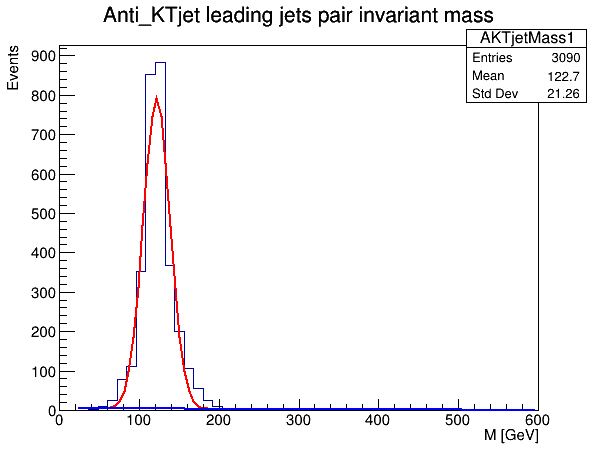
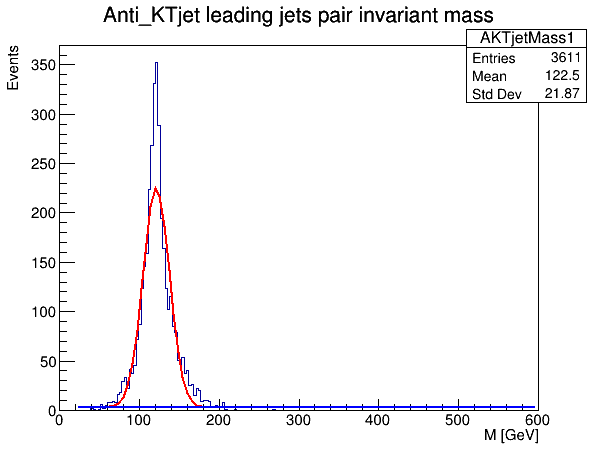
Update new pairing algorithm

diff --git a/Delphes/src/PairingDiHiggs.C b/Delphes/src/PairingDiHiggs.C
@@ -49,8 +49,8 @@ void PairingDiHiggs(const char *inputFile, const char *outputFile){
 
      Int_t nEntries = tree_sig->GetEntries();
 
-     TH1D *AKTjetMass1 = new TH1D("AKTjetMass1", "Anti_KTjet leading jets pair invariant mass", 50 , 0, 600); 
-     TH1D *AKTjetMass2 = new TH1D("AKTjetMass2", "Anti_KTjet sub-leading jets pair invariant mass", 50 , 0, 600); 
+     TH1D *AKTjetMass1 = new TH1D("AKTjetMass1", "Anti_KTjet leading jets pair invariant mass", 200 , 0, 600); 
+     TH1D *AKTjetMass2 = new TH1D("AKTjetMass2", "Anti_KTjet sub-leading jets pair invariant mass", 200 , 0, 600); 
      TH1D *GenAKTMass2 = new TH1D("GenAKTMass2", "GenAKTMass2", 100 , 0, 600); 
      TH1D *AKTGenMass2Comp = new TH1D("AKTGenMass2Comp", "AKTGenMass2Comp", 100 , -1.5, 1.5); 
      
@@ -263,9 +263,9 @@ void PairingDiHiggs(const char *inputFile, const char *outputFile){
 	             jet1DeltaR = jet1DeltaRtmp;
 		     jet1entry = gen3entry;
 		     if (jet1DeltaR < 0.5){
-		         if (abs(Gen1eta) < 2.25){
+		         //if (abs(Gen1eta) < 2.25){
 		             AKT1jet1flag = true;
-		         }
+		         //}
 		     }
 	         }  
              }
@@ -278,9 +278,9 @@ void PairingDiHiggs(const char *inputFile, const char *outputFile){
 	                 jet2DeltaR = jet2DeltaRtmp;
 		         jet2entry = gen4entry;
                          if (jet2DeltaR < 0.5){
-		             if (abs(Gen2eta) < 2.25){
+		             //if (abs(Gen2eta) < 2.25){
 		                 AKT1jet2flag = true;
-			     }
+			     //}
 		         }
 	             }
 	         }
@@ -296,9 +296,9 @@ void PairingDiHiggs(const char *inputFile, const char *outputFile){
 	             jet1DeltaR = jet1DeltaRtmp;
 		     jet1entry = gen1entry;
 		     if (jet1DeltaR < 0.5){
-		         if (abs(Gen1eta) < 2.25){
+		         //if (abs(Gen1eta) < 2.25){
 		             AKT2jet1flag = true;
-		         }
+		         //}
 		     }
 	         }  
              }
@@ -311,9 +311,9 @@ void PairingDiHiggs(const char *inputFile, const char *outputFile){
 	                 jet2DeltaR = jet2DeltaRtmp;
 		         jet2entry = gen2entry;
                          if (jet2DeltaR < 0.5){
-		             if (abs(Gen2eta) < 2.25){
+		             //if (abs(Gen2eta) < 2.25){
 		                 AKT2jet2flag = true;
-			     }
+			     //}
 		         }
 	             }
 	         }
@@ -354,9 +354,9 @@ void PairingDiHiggs(const char *inputFile, const char *outputFile){
      }
 //Fitting and plotting
      TF1 *jetpair1fit = new TF1("jetpair1fit", "gaus",10,200);
-     TF1 *jetpair2fit = new TF1("jetpair2fit", "gaus+expo(3)",20,600);
+     TF1 *jetpair2fit = new TF1("jetpair2fit", "gaus+expo(3)",25,600);
      TF1 *fSignal = new TF1("fSignal","gaus",20,600);
-     TF1 *fBackground = new TF1("fBackground","expo",20,600);
+     TF1 *fBackground = new TF1("fBackground","expo", 20,600);
      Double_t param[5];
 
      jetpair2fit->SetParameters(25,125,10,2,-0.0001);
